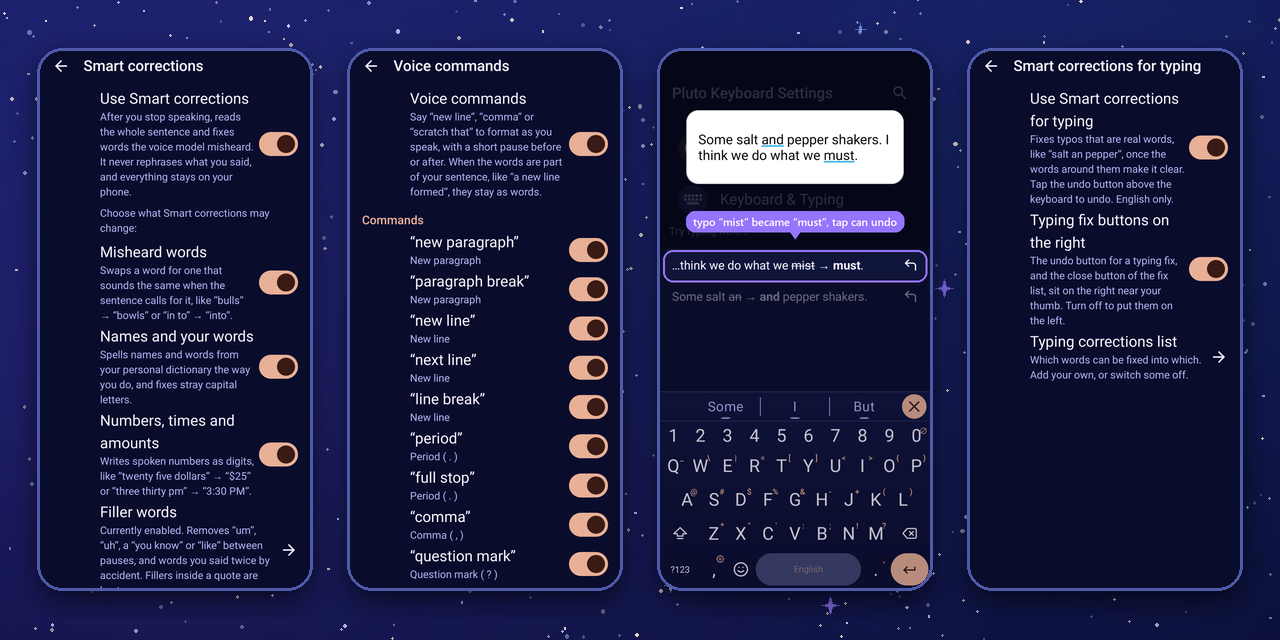
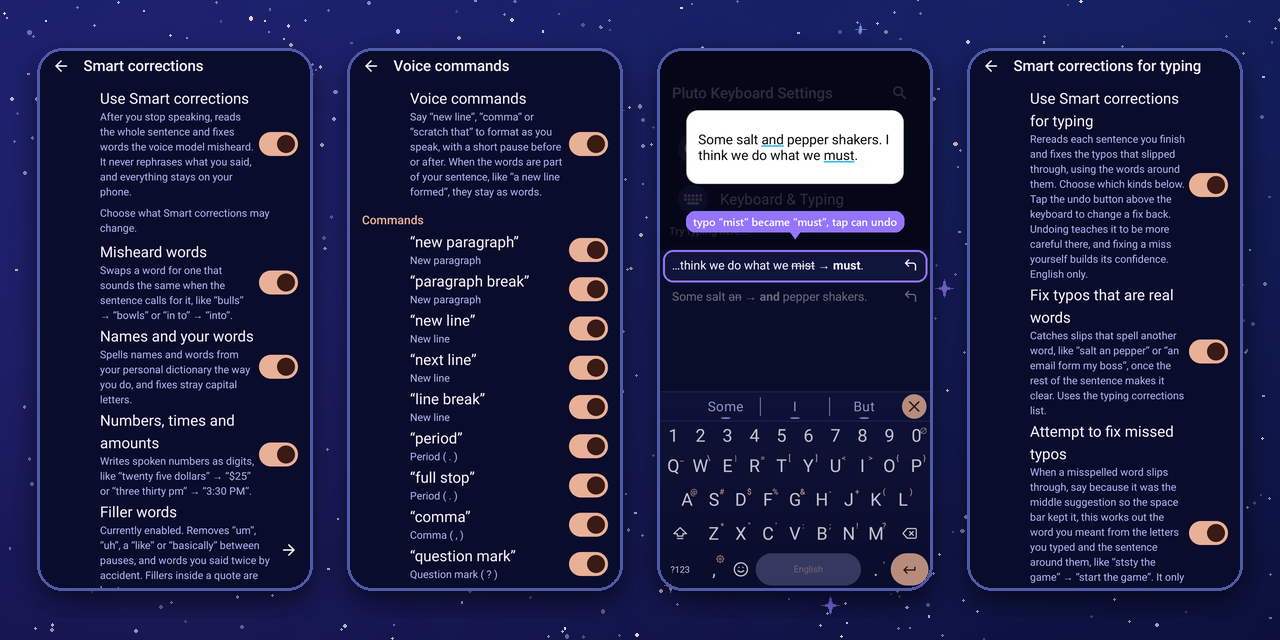
README screenshots for the new typing and Sensitivity features; small fixes and draft release notes
- README: retaken typing settings (two kinds of fixes) and Smart corrections shots, and a third
  panel with the Sensitivity dials, a missed-typo fix with its first-time tip, and Add correction.
- Missed typos: a sentence with more than two unknown words is left alone (likely another
  language or code), which also keeps checks quick.
- The tip card measures the top of the keys from the keyboard itself, so it never covers the
  suggestion bar.
- FEATURES: corrected where some settings live. Draft release notes for the next version.

Changed region(s): [[0.7812, 0.1875, 0.9688, 0.625], [0.7812, 0.6562, 0.9688, 0.9062], [0.0938, 0.8438, 0.2188, 0.875]]

diff --git a/java/src/org/futo/inputmethod/latin/uix/UixManager.kt b/java/src/org/futo/inputmethod/latin/uix/UixManager.kt
@@ -63,6 +63,7 @@ import androidx.compose.runtime.LaunchedEffect
 import androidx.compose.runtime.MutableState
 import androidx.compose.runtime.compositionLocalOf
 import androidx.compose.runtime.getValue
+import androidx.compose.runtime.mutableFloatStateOf
 import androidx.compose.runtime.mutableIntStateOf
 import androidx.compose.runtime.mutableStateOf
 import androidx.compose.runtime.remember
@@ -81,7 +82,6 @@ import androidx.compose.ui.graphics.drawscope.translate
 import androidx.compose.ui.input.pointer.pointerInput
 import androidx.compose.ui.layout.LayoutCoordinates
 import androidx.compose.ui.layout.onGloballyPositioned
-import androidx.compose.ui.layout.positionInParent
 import androidx.compose.ui.layout.onSizeChanged
 import androidx.compose.ui.layout.positionInWindow
 import androidx.compose.ui.platform.ComposeView
@@ -625,7 +625,10 @@ class UixManager(private val latinIME: LatinIME) {
     private var currentNotice: MutableState<ImportantNotice?> = mutableStateOf(null)
 
     /** Where the keys start below the bars, in the keyboard window (for the feature tip card). */
-    private val keysTop = mutableIntStateOf(0)
+    private val keysTop = mutableFloatStateOf(0f)
+
+    /** The top of the keyboard window's content, in window coordinates (keysTop is measured from it). */
+    private val windowTop = mutableFloatStateOf(0f)
 
     private var inlineStuffHiddenByTyping = mutableStateOf(false)
 
@@ -1300,7 +1303,7 @@ class UixManager(private val latinIME: LatinIME) {
             TutorialArrow()
 
             KeyboardWindowSelector { gap ->
-                Column {
+                Column(Modifier.onGloballyPositioned { windowTop.floatValue = it.positionInWindow().y }) {
                     Box(Modifier.onGloballyPositioned { floatingPreeditPosition.value = it })
                     // TODO: Refactor how we handle expandable suggestions here to not be a mess
                     val needToUseExpandableSuggestionUi =
@@ -1326,7 +1329,7 @@ class UixManager(private val latinIME: LatinIME) {
 
                     val kbHeight = remember { mutableIntStateOf(latinIME.size.value!!.height) }
                     val keyboardViewOffset = remember(needToUseExpandableSuggestionUi) { mutableIntStateOf(0) }
-                    Box(Modifier.onGloballyPositioned { keysTop.intValue = it.positionInParent().y.roundToInt() }.let {
+                    Box(Modifier.let {
                         if(needToUseExpandableSuggestionUi) {
                             it.height(
                                 with(LocalDensity.current) { kbHeight.intValue.toDp() }
@@ -1350,6 +1353,7 @@ class UixManager(private val latinIME: LatinIME) {
                             )
                         }
                         latinIME.LegacyKeyboardView(modifier = Modifier
+                            .onGloballyPositioned { keysTop.floatValue = it.positionInWindow().y }
                             .align(Alignment.BottomCenter)
                             .onSizeChanged {
                                 // TODO: Is there a better way?
@@ -1377,7 +1381,7 @@ class UixManager(private val latinIME: LatinIME) {
                 FeatureTipCard(
                     Modifier
                         .align(Alignment.TopCenter)
-                        .offset { IntOffset(0, keysTop.intValue + 4.dp.roundToPx()) }
+                        .offset { IntOffset(0, (keysTop.floatValue - windowTop.floatValue).roundToInt() + 4.dp.roundToPx()) }
                 )
             }
 

diff --git a/voiceinput-shared/src/main/java/org/futo/voiceinput/shared/context/TypingCorrector.kt b/voiceinput-shared/src/main/java/org/futo/voiceinput/shared/context/TypingCorrector.kt
@@ -43,6 +43,8 @@ data class TypingCorrectionConfig(
     val missedMargin: Double = 3.0,
     /** A missed typo shorter than 5 letters needs this much more per missing letter. */
     val shortWordNeed: Double = 2.0,
+    /** A sentence with more missed-typo candidates than this gets none of them fixed. */
+    val maxMissedPerSentence: Int = 2,
 ) {
     /** This config with [margin] moved by the "Sensitivity" setting (see [SmartCorrectionSensitivity]). */
     fun withSensitivity(steps: Int): TypingCorrectionConfig {
@@ -121,6 +123,14 @@ class TypingCorrector(
         val cands = ArrayList<Cand>()
         val words = word.findAll(text, 0).filter { it.range.last < to }.toList()
         if (words.count { it.range.first >= from } < config.minWords) return Result(null, trace, emptyList())
+        // the words that may be missed typos (a sentence with many of them is probably another
+        // language, code or jargon, so it is left alone, which also keeps the check quick)
+        val typos = if (config.missedTypos && finished && lexicon != null) {
+            words.filter { m ->
+                m.range.first >= from && !skip(m.range.first) && missedTypoShape(text, m) && !confusions.isNever(m.value) &&
+                    unknown(m.range.first) && !lexicon.knows(m.value)
+            }.takeIf { it.size <= config.maxMissedPerSentence }?.toSet() ?: emptySet()
+        } else emptySet()
         for ((wi, m) in words.withIndex()) {
             if (m.range.first < from || skip(m.range.first)) continue
             if (!finished && words.size - 1 - wi < config.earlyWords) continue
@@ -130,8 +140,8 @@ class TypingCorrector(
                 cands.add(Cand(m, rep, scored.substring(0, s) + rep + scored.substring(s + m.value.length)))
             }
             // a word no dictionary knows, so the real words it may be a slip of (finished sentences only)
-            if (config.missedTypos && finished && lexicon != null && missedTypoShape(text, m) && !confusions.isNever(m.value) && unknown(m.range.first) && !lexicon.knows(m.value)) {
-                for ((c, cost) in KeyboardTypos.candidates(m.value, lexicon.lowercaseWords, config.maxTypoCost, config.maxTypoCandidates)) {
+            if (m in typos) {
+                for ((c, cost) in KeyboardTypos.candidates(m.value, lexicon!!.lowercaseWords, config.maxTypoCost, config.maxTypoCandidates)) {
                     val rep = matchCase(m.value, c)
                     cands.add(Cand(m, rep, scored.substring(0, s) + rep + scored.substring(s + m.value.length), cost))
                 }

diff --git a/java/src/org/futo/inputmethod/latin/uix/TypingCorrections.kt b/java/src/org/futo/inputmethod/latin/uix/TypingCorrections.kt
@@ -304,6 +304,7 @@ class TypingCorrections(private val helper: IMEHelper, private val inputLogic: I
 
     fun onFinishInput() {
         running?.cancel()
+        selectionTip?.cancel()
         waiting = null
         // the fixes stay but the list of them goes
         TypingFixes.fixes.value = emptyList()

diff --git a/docs/RELEASE_NOTES_next.md b/docs/RELEASE_NOTES_next.md
@@ -1,0 +1,32 @@
+# Pluto Keyboard (next version)
+
+This update is mostly about Smart corrections for typing, which can now catch plain misspellings too, plus a dial for every kind of fix so you can decide how bold it gets. There are also short tips the first time you run into a feature, and a full features guide.
+
+## What's new
+
+- **Attempt to fix missed typos (typing).** When a misspelled word slips past autocorrect (say it was the middle suggestion, so the space bar kept it), Smart corrections works out the word you meant from the letters you typed and the sentence around them, like "ststy the game" → "start the game". It only steps in when one word is the clear answer, and it leaves names, abbreviations and your own words alone.
+- **Two switches for typing fixes.** Smart corrections for typing now has separate switches for typos that are real words ("salt an pepper") and for missed typos, so you can use one without the other.
+- **Sensitivity dials.** Every kind of voice fix (misheard words, names, numbers, fillers, quotes, emoji, commands, self-corrections and question marks) has its own dial from Fewest to Most changes, and typing has one too. Slide left if it changes things you meant, or right if it misses fixes you want.
+- **Add correction.** Select a word you often mistype and tap Add correction in the suggestion bar to tell it what you meant. Next time, it can fix that typo for you.
+- **Stop a fix.** Right after you undo a typing fix, the button offers Stop for a few seconds, which turns that fix off everywhere.
+- **It learns from you.** Undoing a fix makes it more careful in that context, and fixing a miss yourself makes it more confident next time.
+- **Up to two fixes per sentence** for typing, instead of one.
+- **Feature tips.** The first time you meet a feature (your first fix, your first undo, selecting a word and so on), a short tip explains it. You can turn tips off, or see them all again, under Help.
+- **Live voice typing options.** Under Voice Input → Advanced options you can now choose whether words show while you speak, how often the live text refreshes, and whether voice typing stops by itself after a pause.
+
+## Voice improvements
+
+- Amounts said with a unit always become digits, so "six hundred dollars profit" is now "$600 profit" and "800 dollars" is "$800".
+- "You know" is no longer removed as a filler word, since people usually mean it. You can still add it to your own list.
+- A self-correction phrase at the very start of a dictation ("No, I mean the blue one") is left alone, because it's usually correcting a message you already sent.
+- Names from your personal dictionary need a closer sound match, so "Oh darn" won't turn into a name that only loosely sounds like it.
+- Sentences that the punctuation step split before "who" or "which" are joined back up ("to Marcus, who locked…").
+
+## Other changes
+
+- A new [features guide](https://github.com/ColinCPittman/Futo-Keyboard-ASR-Heatmap/blob/main/docs/FEATURES.md) explains every feature, how it works and how to get the most out of it.
+- Settings text and docs were rewritten in plainer English.
+
+## Updating
+
+Install the new APK over the old one (or let Obtainium do it). Your settings, learned words and models stay. If you use Smart corrections for typing, the two new switches start out on.

diff --git a/README.md b/README.md
@@ -26,7 +26,9 @@ Smart corrections also works when you type. Once you finish a sentence, it rerea
 
 For a full guide to every feature, how it works and how to get the most out of it, see [docs/FEATURES.md](docs/FEATURES.md).
 
-<img src="docs/assets/readme-screens-2.png" alt="Smart corrections settings, voice commands, the list of typing fixes with mist to must highlighted, typing settings" width="100%">
+<img src="docs/assets/readme-screens-2.png" alt="Smart corrections settings, voice commands, the list of typing fixes with mist to must highlighted, typing settings with the two kinds of fixes" width="100%">
+
+<img src="docs/assets/readme-screens-3.png" alt="The Sensitivity dials, a missed typo fixed with its first-time tip, the Add correction button for a selected word, and the Add correction window" width="100%">
 
 
 ## Install
